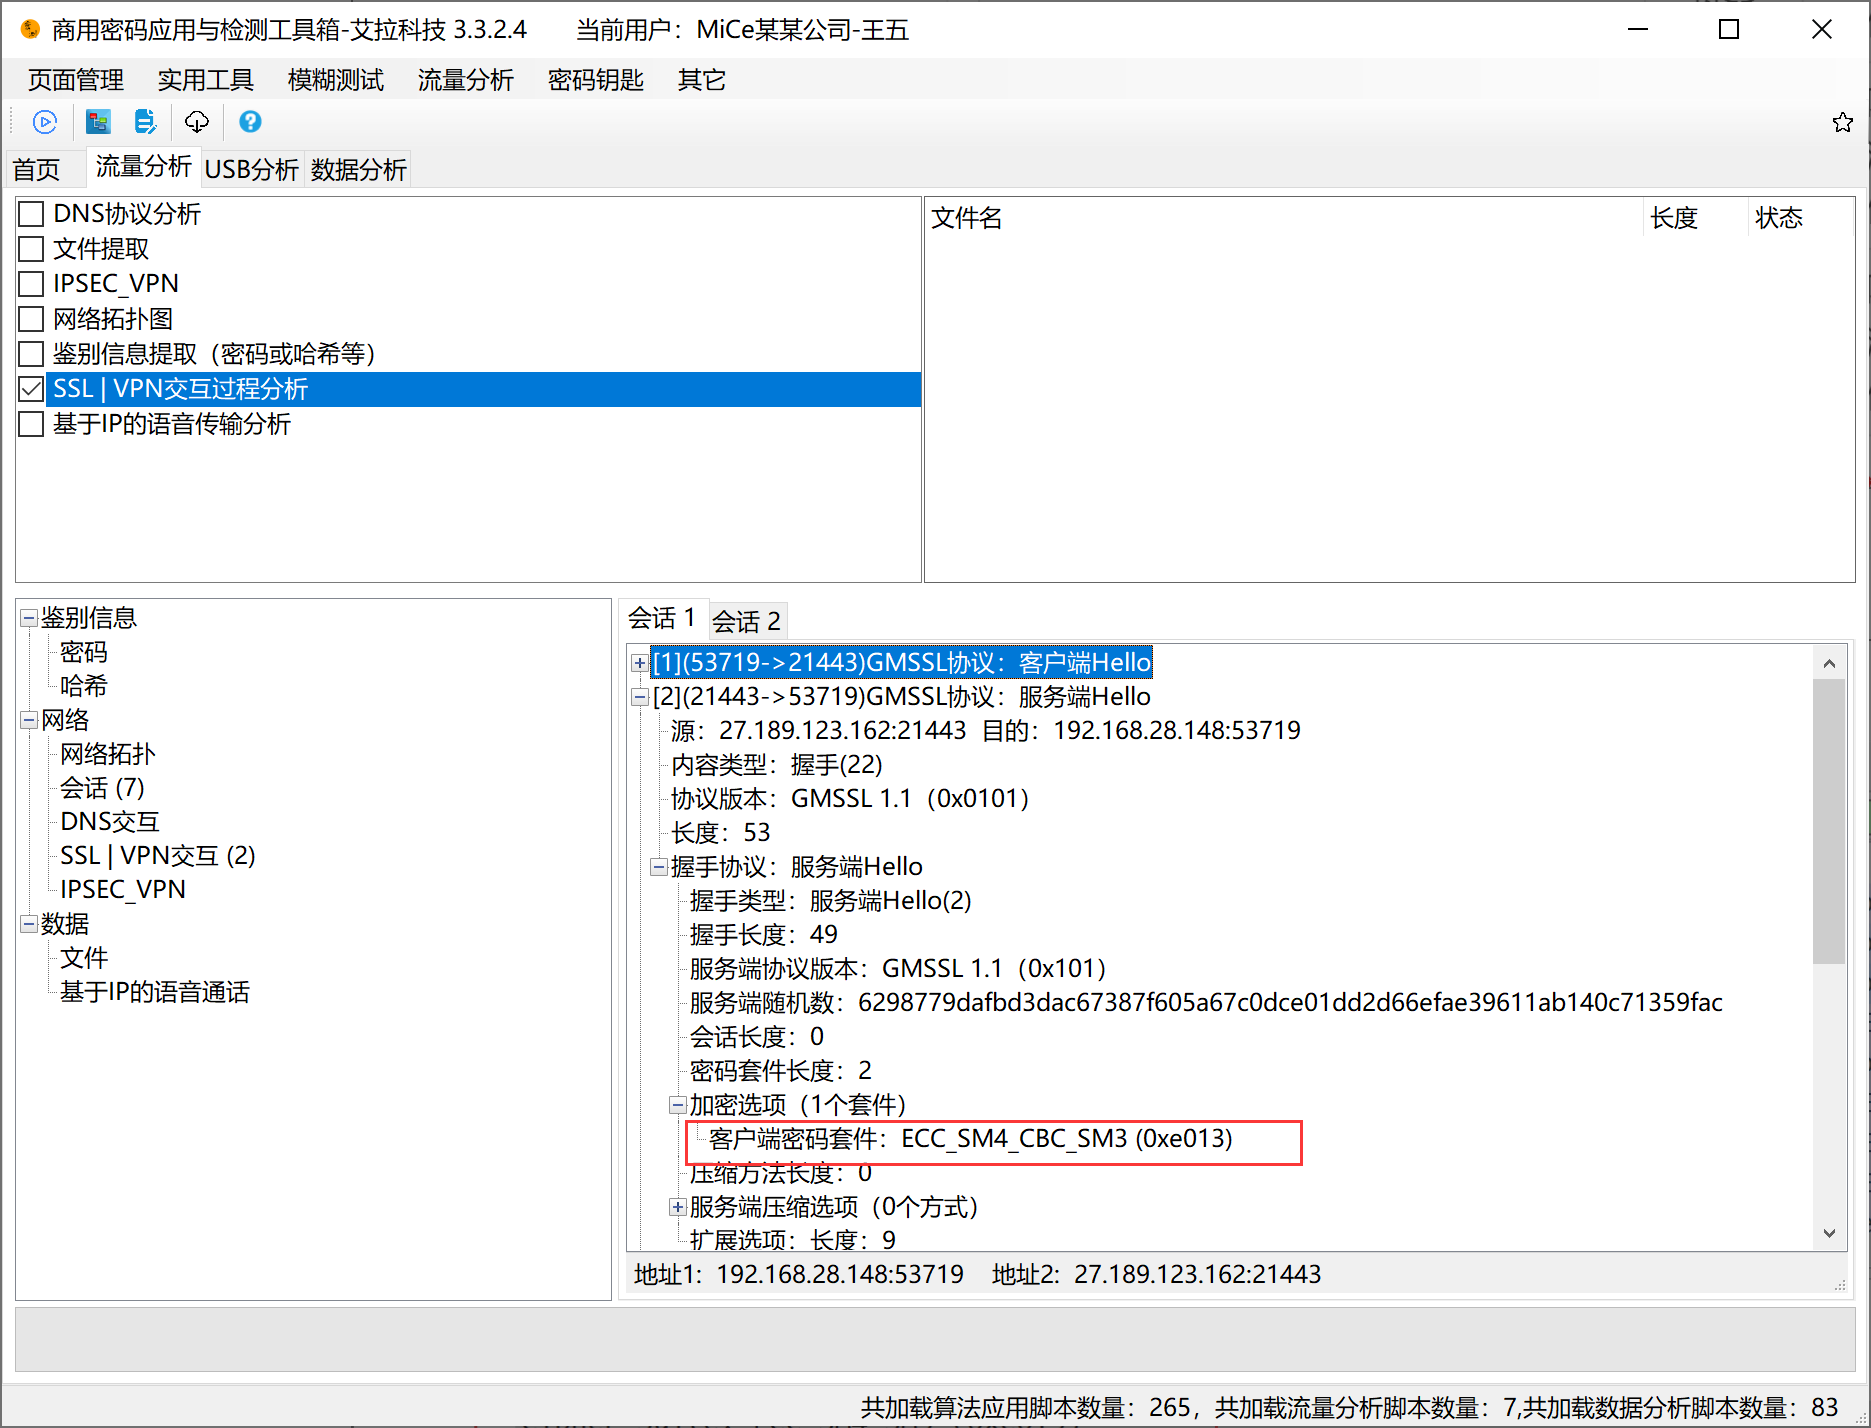
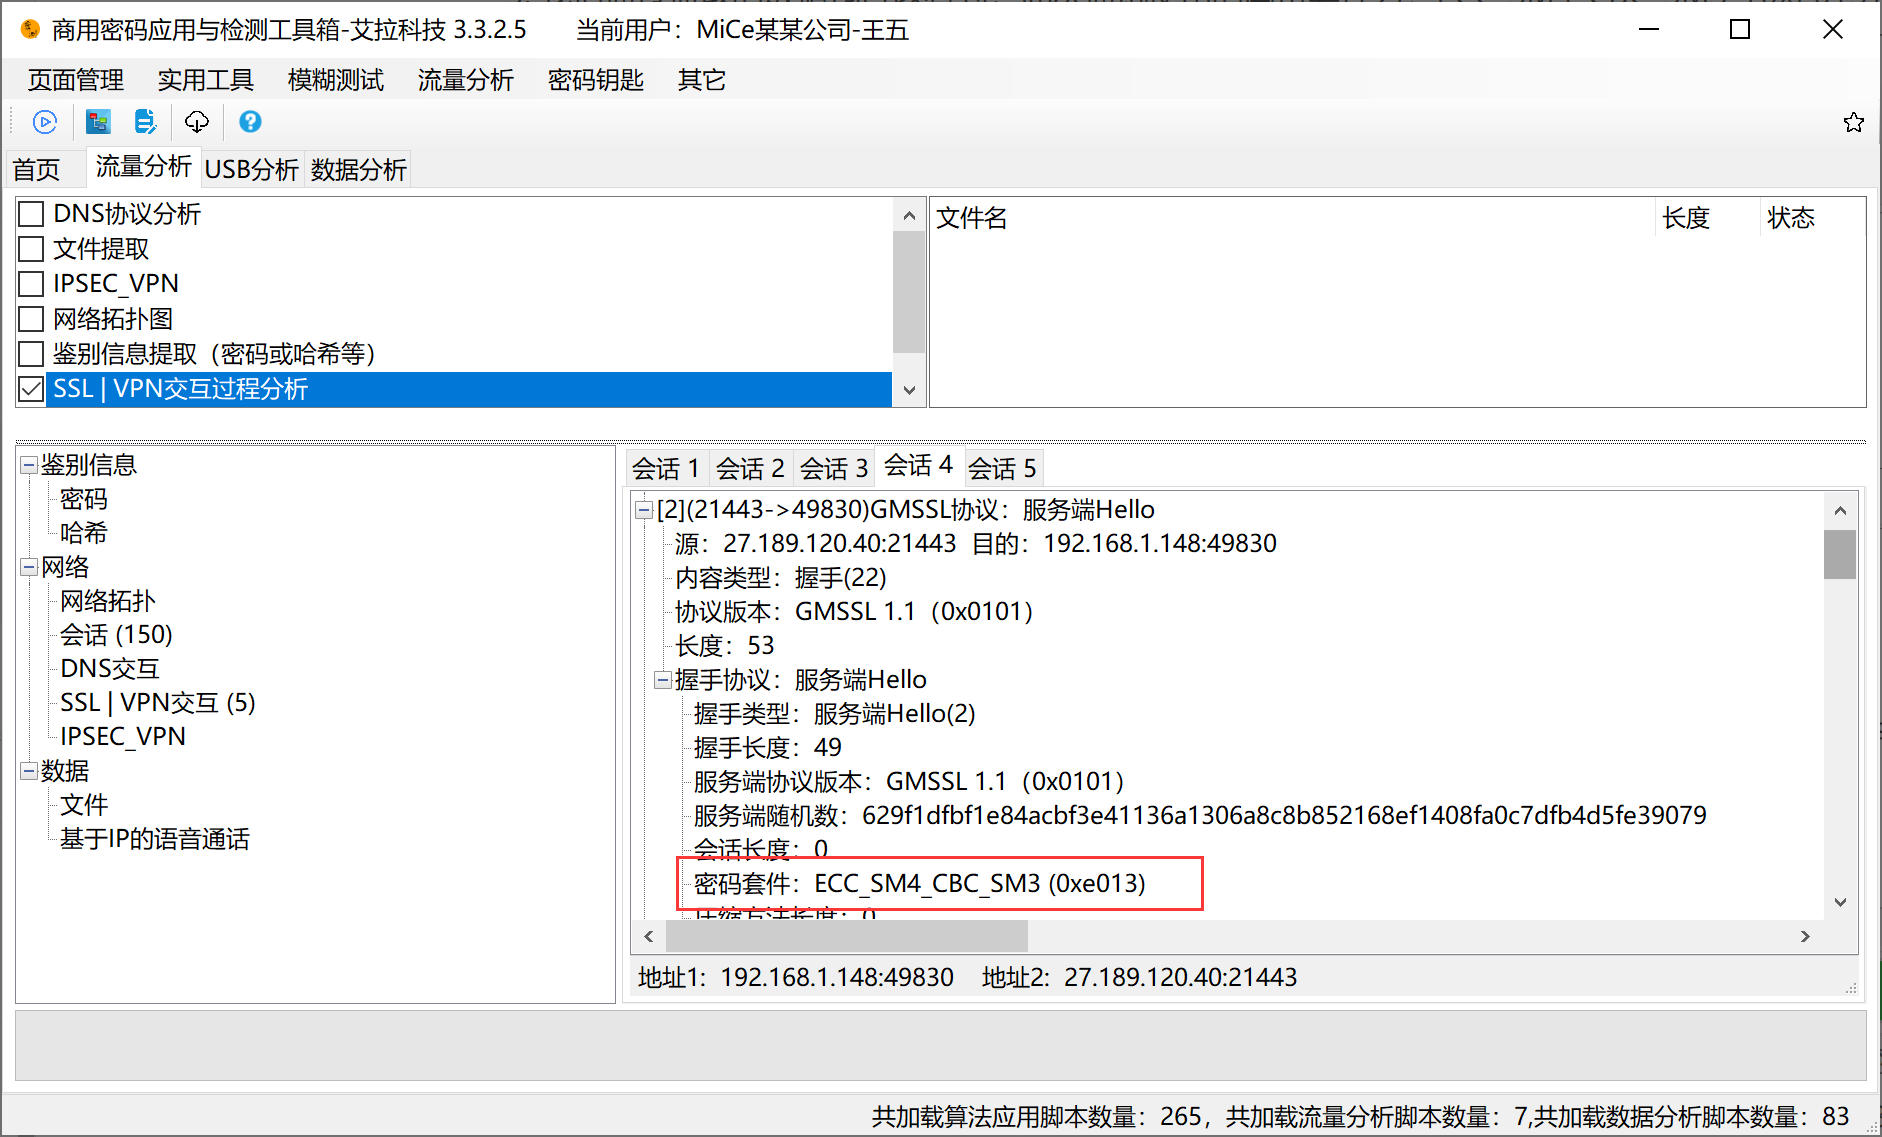
增加国际tls套件过滤、更换其他介绍中的图片

diff --git a/_pages/0104guolv.md b/_pages/0104guolv.md
@@ -1,0 +1,105 @@
+# 1.4 国际TLS密码套件过滤
+
+&emsp;&emsp;在密码套件中，不是所有密码套件都是安全的，如果使用了不安全的密码套件可能会导致被黑客攻击，所以我们要配置密码套件过滤来指定TLS使用安全的密码套件，来避免这个问题。
+
+对于密码套件的选取有以下原则：
+
+> * 支持的SSL/TLS版本：TLS1.2，TLS1.3（禁用SSLV3 TLS1.0和TLS1.1）
+> * 密钥交换算法禁用DH，ADH，优选DHE(2048)和ECHDE，保留RSA（原则上禁用）
+> * 认证算法使用：RSA和ECDSA，禁用none
+> * 对称加密算法使用：AES, Camellia, ChaCha20, 禁用DES, 3DES, RC4,SEED
+> * 工作模式推荐：AES-GCM， ChaCha20_POLY1305，禁用CBC（弱安全性）
+> * MAC算法：SHA384，SHA256，禁用SHA1,MD5
+
+<p style="color:red;font-weight:bold">
+       注:TLS1.0、TLS1.1协议存在弱加密支持，当前很多主流浏览器已经废弃了这两个协议，所以这里不再演示对它们的套件过滤。
+</p>
+
+
+## 1.4.1 TLS 1.2
+
+针对TLS1.2，推荐以下3种程度安全要求的密码套件：
+
+1.  TLS1.2密码套件中满足[前向安全性](https://baike.baidu.com/item/%E5%89%8D%E5%90%91%E5%AE%89%E5%85%A8%E6%80%A7/6357798?fr=aladdin)，禁用CBC的密码套件推荐如下所示
+
+   > * TLS_DHE_RSA_WITH_AES_128_GCM_SHA256  RSA证书
+   > * TLS_DHE_RSA_WITH_AES_256_GCM_SHA384  RSA证书
+   > * TLS_ECDHE_RSA_WITH_AES_128_GCM_SHA256  RSA证书
+   > * TLS_ECDHE_RSA_WITH_AES_256_GCM_SHA384  RSA证书
+   > * TLS_ECDHE_ECDSA_WITH_AES_128_GCM_SHA256  ecc证书
+   > * TLS_ECDHE_ECDSA_WITH_AES_256_GCM_SHA384  ecc证书
+
+1. 在"1"的安全要求下，考虑效率，因为DHE算法效率低，通常不建议。则满足前向安全，禁用CBC，保证高效率的密码套件如下所示：
+
+   > * TLS_ECDHE_RSA_WITH_AES_128_GCM_SHA256
+   > * TLS_ECDHE_RSA_WITH_AES_256_GCM_SHA384
+   > * TLS_ECDHE_ECDSA_WITH_AES_128_GCM_SHA256
+   > * TLS_ECDHE_ECDSA_WITH_AES_256_GCM_SHA384
+
+1. 严格意义上128位的加密算法AES并不能保证安全性。所以在"2"的基础上推荐的密码套件如下所示：
+
+   >* TLS_ECDHE_RSA_WITH_AES_256_GCM_SHA384
+   >* TLS_ECDHE_ECDSA_WITH_AES_256_GCM_SHA384
+
+下面对TLS1.2协议套件过滤进行演示：
+
+1. 首先我们打开[商用密码检测工具箱](https://www.ailawuyou.com/micetoolbox/)，进入流量分析，选择网络接口，过滤条件为"**host 网关地址**",然后我们勾选"SSL|VPN交互过程分析"，然后点击开始按钮，抓取浏览器访问“新渡-国密安全WEB网关（GMSWG）”的数据
+
+   ![image-20220602164019887](../image/MiCeZhua.png ':size=75%')
+
+2. 我们将网关协议配置为只支持TLS1.2，这次密码套件我们不指定。
+
+3. 然后使用"谷歌浏览器"访问"新渡-国密安全WEB网关（GMSWG）",由图可见成功访问
+
+   ![google](../image/google.png ':size=75%')
+
+4. 分析数据包，由图看出，在我们没有指定密码套件的情况下，默认使用的是"TLS_ECDHE_RSA_WITH_AES_256_GCM_SHA384 "
+
+   ![image-20220607165221093](../image/guolv_tls12_moren.png ':size=75%')
+
+5. 然后我们在网关中指定使用的密码套件为"TLS_ECDHE_RSA_WITH_AES_128_GCM_SHA256"(可以同时指定多个套件)
+
+6. 然后再次使用谷歌浏览器访问，并用商用密码应用与检测工具箱进行抓包。
+
+7. 分析数据包，由图可以看出，这次通信使用的套件已经成功改为了我们设置的密码套件:
+
+   "TLS_ECDHE_RSA_WITH_AES_128_GCM_SHA256"
+
+   ![image-20220607164055030](../image/guolv_tls12.png ':size=75%')
+
+## 1.4.2 TLS 1.3
+
+目前TLS 1.3支持的密码套件有：
+
+> * TLS-AES128-GCM-SHA256
+> * TLS-AES256-GCM-SHA384
+> * TLS-CHACHA20-POLY1305-SHA256
+> * TLS-AES128-CCM-SHA256
+> * TLS-AES128-CCM-8-SHA256
+
+下面对TLS1.3协议套件过滤进行演示：
+
+1. 首先我们打开[商用密码检测工具箱](https://www.ailawuyou.com/micetoolbox/)，进入流量分析，选择网络接口，过滤条件为"**host 网关地址**",然后我们勾选"SSL|VPN交互过程分析"，然后点击开始按钮，抓取浏览器访问“新渡-国密安全WEB网关（GMSWG）”的数据
+
+   ![image-20220602164019887](../image/MiCeZhua.png ':size=75%')
+
+2. 我们将网关协议配置为只支持TLS1.3，这次密码套件我们不指定。
+
+3. 然后使用"谷歌浏览器"访问"新渡-国密安全WEB网关（GMSWG）",由图可见成功访问
+
+   ![google](../image/google.png ':size=75%')
+
+4. 分析数据包，由图看出，在我们没有指定密码套件的情况下，默认使用的是" TLS_AES_256_GCM_SHA384"
+
+   ![image-20220607170221337](../image/guolv_tls13_moren.png ':size=75%')
+
+5. 然后我们在网关中指定使用的密码套件为"TLS_AES_128_GCM_SHA256"(可以同时指定多个套件)
+
+6. 然后再次使用谷歌浏览器访问，并用商用密码应用与检测工具箱进行抓包。
+
+7. 分析数据包，由图可以看出，这次通信使用的套件已经成功改为了我们设置的密码套件:
+
+   "TLS_AES_128_GCM_SHA256"
+
+   ![image-20220607171535137](../image/guolv_tls13.png ':size=75%')
+

diff --git a/_pages/01zhibiao.md b/_pages/01zhibiao.md
@@ -7,10 +7,6 @@
 <p style="color:red;font-weight:bold">
        注:演示过程中有关国密测试均使用"奇安信安全浏览器"访问“新渡-国密安全WEB网关（GMSWG）”，使用Wireshark或‘商用密码检测工具箱’抓包分析。
 </p>
-
-
-
-
 * 奇安信安全浏览器
 
   [奇安信安全浏览器下载](https://www.qianxin.com/ctp/gmbrowser.html)
@@ -27,7 +23,7 @@
 
   [商用密码检测工具箱](https://www.ailawuyou.com/micetoolbox/)
 
-  ![image-20220602164724467](../image/image-20220602164724467.png)
+  ![image-20220602164724467](../image/image-20220602164724467.png ':size=50%')
   
   
   

diff --git a/_pages/0103zishiying.md b/_pages/0103zishiying.md
@@ -20,9 +20,9 @@
 
   4. 查看抓取的数据包，由图可以看出即成功建立了国密通信又成功建立了国际通信
 
-     ![image-20220602165919766](../image/image-20220602165919766.png ':size=75%')
+     ![image-20220602165919766](../image/zishi_gm.png ':size=75%')
   
-     ![image-20220602170010701](../image/image-20220602170010701.png ':size=75%')
+     ![image-20220602170010701](../image/zishi_gj.png ':size=75%')
   
 
 至此，"新渡-国密安全WEB网关（GMSWG）"国际国密访问自适应演示完毕，结果与预期结果相同。

diff --git a/_pages/0101taojian.md b/_pages/0101taojian.md
@@ -28,7 +28,9 @@
 
      ![image-20220602164502186](../image/MiCe_GCM.png ':size=75%')
 
-     至此，"新渡-国密安全WEB网关（GMSWG）"演示国密套件：ECC_SM4_CBC_SM3和ECC_SM4_GCM_SM3，演示完毕，结果与预期结果相同。（注:还有两个国密套件没有演示）
+     
 
+     至此，"新渡-国密安全WEB网关（GMSWG）"演示国密套件：ECC_SM4_CBC_SM3和ECC_SM4_GCM_SM3，演示完毕，结果与预期结果相同。（注:还有两个国密套件没有演示）
+  
      
 

diff --git a/_sidebar.md b/_sidebar.md
@@ -3,6 +3,7 @@
   * [1.1国密套件演示](/_pages/0101taojian.md)
   * [1.2国密TLS的单向认证和双向认证](/_pages/0102danshuang.md)
   * [1.3国密国际访问自适应](/_pages/0103zishiying.md)
+  * [1.4国际TLS密码套件过滤](/_pages/0104guolv.md)
 * [2.应用案例](#)
   * [2.1配置HTTP2](/_pages/0201http2.md)
 * [3.最佳实践](/_pages/03zuijia.md)
